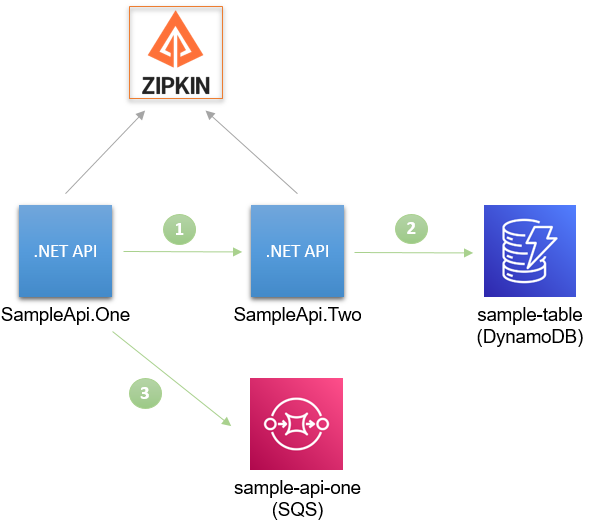
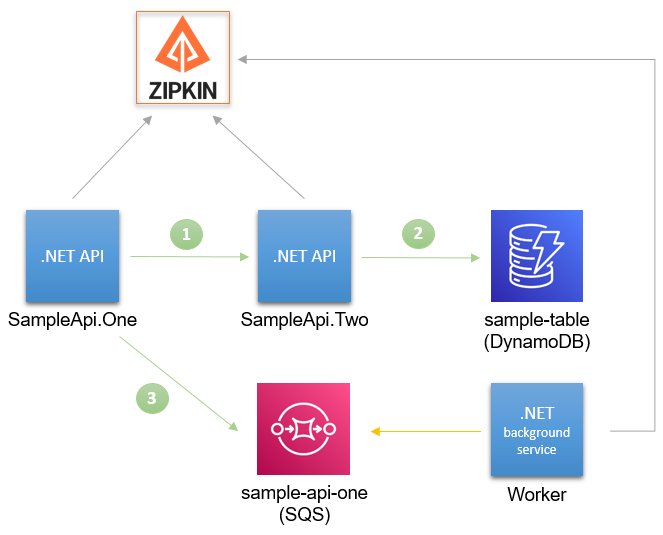
Add sqs worker

diff --git a/Worker/Worker.cs b/Worker/Worker.cs
@@ -1,0 +1,75 @@
+using Amazon.SQS;
+using Amazon.SQS.Model;
+using Microsoft.Extensions.Hosting;
+using Microsoft.Extensions.Logging;
+using System.Diagnostics;
+using System.Threading;
+using System.Threading.Tasks;
+using Worker.MessageHandler;
+
+namespace Worker
+{
+    public class Worker : BackgroundService
+    {
+        private readonly ILogger<Worker> _logger;
+        private readonly Settings _settings;
+        private readonly IAmazonSQS _sqsClient;
+        private readonly ISqsMessageHandler _sqsHandler;
+        private readonly ActivitySource _activitySource;
+
+        public Worker(ILogger<Worker> logger, Settings settings, IAmazonSQS sqsClient, ISqsMessageHandler sqsHandler, ActivitySource activitySource)
+        {
+            _logger = logger;
+            _settings = settings;
+            _sqsClient = sqsClient;
+            _sqsHandler = sqsHandler;
+            _activitySource = activitySource;
+        }
+
+        protected override async Task ExecuteAsync(CancellationToken stoppingToken)
+        {
+            var queueUrl = $"{_settings.AwsServiceUrl}/000000000000/{_settings.QueueName}";
+
+            while (!stoppingToken.IsCancellationRequested)
+            {
+                var receiveMessageRequest = new ReceiveMessageRequest()
+                {
+                    QueueUrl = queueUrl,
+                    MessageAttributeNames = { "TraceParentId" },
+                    WaitTimeSeconds = 20
+                };
+                
+                var receiveMessageResponse = await _sqsClient.ReceiveMessageAsync(receiveMessageRequest, stoppingToken);
+
+                foreach (var message in receiveMessageResponse.Messages)
+                {
+                    using (var activity = _activitySource.StartActivity("ReceiveMessage"))
+                    {
+                        // invalid parent span IDs=664fd616639bf448; skipping clock skew adjustment
+                        //var hasParentTrace = message.MessageAttributes.TryGetValue("TraceParentId", out MessageAttributeValue value);
+                        //if (hasParentTrace)
+                        //{
+                        //    // Activity.Current?.SetParentId(value.StringValue); Activity.Current is null in the Background service
+                        //    activity.SetParentId(value.StringValue);
+                        //}
+
+                        using (var subActivity = _activitySource.StartActivity("ProcessMessage"))
+                        {
+                            await _sqsHandler.ProcessMessageAsync(message, stoppingToken);
+                        }
+
+                        using (var subActivity = _activitySource.StartActivity("DeleteMessageFromQueue"))
+                        {
+                            await _sqsClient.DeleteMessageAsync(new DeleteMessageRequest()
+                            {
+                                QueueUrl = queueUrl,
+                                ReceiptHandle = message.ReceiptHandle
+                            }, stoppingToken);
+                        }
+                    }
+                }
+                await Task.Delay(1000, stoppingToken);
+            }
+        }
+    }
+}

diff --git a/Worker/ServiceCollectionExtensions.cs b/Worker/ServiceCollectionExtensions.cs
@@ -1,0 +1,73 @@
+using Amazon.SQS;
+using Microsoft.Extensions.Configuration;
+using Microsoft.Extensions.DependencyInjection;
+using OpenTelemetry.Resources;
+using OpenTelemetry.Trace;
+using Shared;
+using System;
+using System.Diagnostics;
+using Worker.MessageHandler;
+
+namespace Worker
+{
+    public static class ServiceCollectionExtensions
+    {
+        public static IServiceCollection RegisterAppServices(this IServiceCollection services, IConfiguration configuration)
+        {
+            var settings = configuration.GetSection("Settings").Get<Settings>();
+
+            configuration.LogSettings("Settings");
+
+            services.AddSingleton(settings);
+
+            services.AddSingleton<IAmazonSQS>(
+                new AmazonSQSClient(
+                    new AmazonSQSConfig() {
+                    ServiceURL = settings.AwsServiceUrl
+                }));
+
+            services.AddSingleton<ISqsMessageHandler, SqsMessageHandler>();
+
+            services.RegisterOpenTelemetry(settings);
+
+            return services;
+        }
+
+        public static IServiceCollection RegisterOpenTelemetry(this IServiceCollection services, Settings settings)
+        {
+            services.AddSingleton(new ActivitySource("Sqs.Instrumentation"));
+            services.AddOpenTelemetryTracing((builder) =>
+            {
+                builder
+                    .SetResourceBuilder(ResourceBuilder.CreateDefault().AddService(settings.ServiceName))
+                    .AddSource("Sqs.Instrumentation")
+                    .AddConsoleExporter();
+
+                if (settings.DistributedTracingOptions.Exporter == Exporter.ZipKin)
+                {
+                    builder.AddZipkinExporter(opt =>
+                    {
+                        opt.Endpoint = new Uri(settings.DistributedTracingOptions.ZipkinEndpointUrl);
+                    });
+                }
+
+                if (settings.DistributedTracingOptions.Exporter == Exporter.OtlpCollector)
+                {
+                    var uri = new Uri(settings.DistributedTracingOptions.OtlpEndpointUrl);
+
+                    if (uri.Scheme == "http")
+                    {
+                        AppContext.SetSwitch("System.Net.Http.SocketsHttpHandler.Http2UnencryptedSupport", true);
+                    }
+
+                    builder.AddOtlpExporter(opt =>
+                    {
+                        opt.Endpoint = uri;
+                    });
+                }
+            }
+            );
+            return services;
+        }
+    }
+}

diff --git a/SampleApi.One/ServiceCollectionExtensions.cs b/SampleApi.One/ServiceCollectionExtensions.cs
@@ -26,15 +26,21 @@ namespace SampleApi.One
                         ServiceURL = settings.AwsServiceUrl
                     }));
 
-            services.AddSingleton(new ActivitySource("Sqs.Instrumentation"));
+            services.RegisterOpenTelemetry(settings);
 
+            return services;
+        }
+
+        public static IServiceCollection RegisterOpenTelemetry(this IServiceCollection services, Settings settings)
+        {
+            services.AddSingleton(new ActivitySource("Sqs.Instrumentation"));
             services.AddOpenTelemetryTracing((builder) => {
                 builder
                     .SetResourceBuilder(ResourceBuilder.CreateDefault().AddService(settings.ServiceName))
                     .AddAspNetCoreInstrumentation()
                     .AddSource("Sqs.Instrumentation")
                     .AddConsoleExporter();
-                    
+
                 if (settings.DistributedTracingOptions.Exporter == Exporter.ZipKin)
                 {
                     builder.AddZipkinExporter(opt =>
@@ -59,7 +65,6 @@ namespace SampleApi.One
                 }
             }
             );
-
             return services;
         }
     }

diff --git a/SampleApi.Two/ServiceCollectionExtensions.cs b/SampleApi.Two/ServiceCollectionExtensions.cs
@@ -26,7 +26,15 @@ namespace SampleApi.Two
                         ServiceURL = settings.AwsServiceUrl
                     }));
 
-            services.AddOpenTelemetryTracing((builder) => {
+            services.RegisterOpenTelemetry(settings);
+
+            return services;
+        }
+
+        public static IServiceCollection RegisterOpenTelemetry(this IServiceCollection services, Settings settings)
+        {
+            services.AddOpenTelemetryTracing((builder) =>
+            {
                 builder
                     .SetResourceBuilder(ResourceBuilder.CreateDefault().AddService(settings.ServiceName))
                     .AddAspNetCoreInstrumentation()
@@ -81,8 +89,7 @@ namespace SampleApi.Two
                 }
             }
             );
-
-            return services; 
+            return services;
         }
     }
 }

diff --git a/Worker/Program.cs b/Worker/Program.cs
@@ -1,0 +1,21 @@
+using Microsoft.Extensions.DependencyInjection;
+using Microsoft.Extensions.Hosting;
+
+namespace Worker
+{
+    public class Program
+    {
+        public static void Main(string[] args)
+        {
+            CreateHostBuilder(args).Build().Run();
+        }
+
+        public static IHostBuilder CreateHostBuilder(string[] args) =>
+            Host.CreateDefaultBuilder(args)
+                .ConfigureServices((hostContext, services) =>
+                {
+                    services.RegisterAppServices(hostContext.Configuration);
+                    services.AddHostedService<Worker>();
+                });
+    }
+}

diff --git a/Worker/Settings.cs b/Worker/Settings.cs
@@ -1,0 +1,27 @@
+namespace Worker
+{
+    public class Settings
+    {
+        public string ServiceName { get; set; }
+
+        public string AwsServiceUrl { get; set; }
+
+        public string QueueName { get; set; }
+
+        public DistributedTracingOptions DistributedTracingOptions { get; set; }
+    }
+
+    public class DistributedTracingOptions
+    {
+        public Exporter Exporter { get; set; }
+
+        public string ZipkinEndpointUrl { get; set; } = "";
+
+        public string OtlpEndpointUrl { get; set; } = "";
+    }
+
+    public enum Exporter
+    {
+        ZipKin, OtlpCollector
+    }
+}

diff --git a/Worker/MessageHandler/SqsMessageHandler.cs b/Worker/MessageHandler/SqsMessageHandler.cs
@@ -1,0 +1,19 @@
+using Amazon.SQS.Model;
+using System;
+using System.Threading;
+using System.Threading.Tasks;
+
+namespace Worker.MessageHandler
+{
+    public class SqsMessageHandler : ISqsMessageHandler
+    {
+        public async Task<bool> ProcessMessageAsync(Message message, CancellationToken cancellationToken)
+        {
+            Console.WriteLine($"Read Message {message.Body}");
+
+            await Task.Delay(1000, cancellationToken);
+
+            return true;
+        }
+    }
+}

diff --git a/Worker/MessageHandler/ISqsMessageHandler.cs b/Worker/MessageHandler/ISqsMessageHandler.cs
@@ -1,0 +1,11 @@
+using Amazon.SQS.Model;
+using System.Threading;
+using System.Threading.Tasks;
+
+namespace Worker.MessageHandler
+{
+    public interface ISqsMessageHandler
+    {
+        Task<bool> ProcessMessageAsync(Message message, CancellationToken cancellationToken);
+    }
+}
